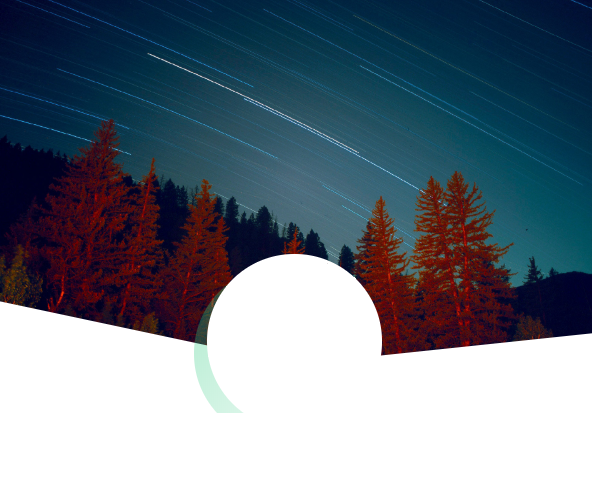
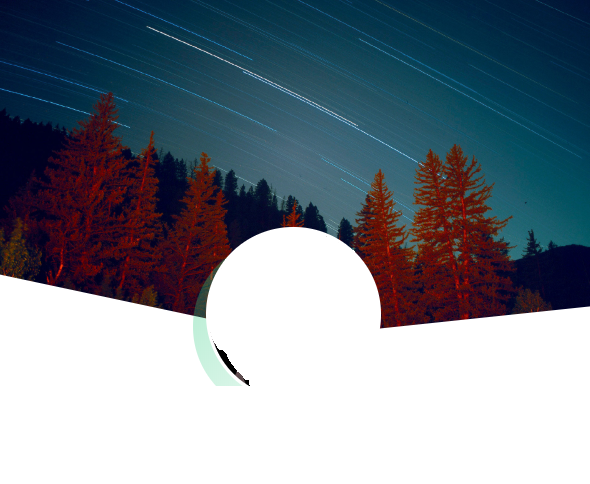
update-6

diff --git a/index.html b/index.html
@@ -41,7 +41,7 @@
                 <img src="..\Resume-website\assests\images\backs.png" class="img-fluid pull-xs-left" alt="background">
               </div>
               <div>
-                <img src="..\Resume-website\assests\images\profile.jpg" class="img-circle" alt="shubham"  style="height:180px;width:180px;margin-left:190px; margin-top:-270px;box-shadow: 0 3px 2px rgba(0, 0, 0, 0.3);  ">
+                <img src="..\Resume-website\assests\images\profile.jpg" class="img-circle" alt="shubham"  style="height:180px;width:180px;margin-left:190px; margin-top:-320px;box-shadow: 0 3px 2px rgba(0, 0, 0, 0.3);  ">
               </div>
               <div>
                 <h3><b>Shubham Chauhan</b></h3>
@@ -49,20 +49,14 @@
               <div>
                 <h4><b>Frontend Developer</b></h4>
               </div>
-              <div>
+              <div style="margin-top:20px">
                 <ul>
-                <li>
-                  <a class="header-logo-invertocat" href="https://github.com/" data-hotkey="g d" aria-label="Homepage" data-ga-click="Header, go to dashboard, icon:logo">
-                   <svg height="32" class="octicon octicon-mark-github" viewBox="0 0 16 16" version="1.1" width="32" aria-hidden="true"><path fill-rule="evenodd" d="M8 0C3.58 0 0 3.58 0 8c0 3.54 2.29 6.53 5.47 7.59.4.07.55-.17.55-.38 0-.19-.01-.82-.01-1.49-2.01.37-2.53-.49-2.69-.94-.09-.23-.48-.94-.82-1.13-.28-.15-.68-.52-.01-.53.63-.01 1.08.58 1.23.82.72 1.21 1.87.87 2.33.66.07-.52.28-.87.51-1.07-1.78-.2-3.64-.89-3.64-3.95 0-.87.31-1.59.82-2.15-.08-.2-.36-1.02.08-2.12 0 0 .67-.21 2.2.82.64-.18 1.32-.27   2-.27.68 0 1.36.09 2 .27 1.53-1.04 2.2-.82 2.2-.82.44 1.1.16 1.92.08 2.12.51.56.82 1.27.82 2.15 0 3.07-1.87 3.75-3.65 3.95.29.25.54.73.54 1.48 0 1.07-.01 1.93-.01 2.2 0 .21.15.46.55.38A8.013 8.013 0 0 0 16 8c0-4.42-3.58-8-8-8z"></path></svg>
-                   </a></li>
-                 <li>
-                <a class="_19eb" data-gt="{&quot;chrome_nav_item&quot;:&quot;logo_chrome&quot;}" href="https://www.facebook.com/?ref=logo"><span class="_2md">Facebook</span></a><li>
-                </li>
-                 <li><a href="#news"><span class="glyphicon glyphicon-list-alt"></span></a></li>
-                 <li><a href="#contact"><span class="glyphicon glyphicon-education"></span></a></li>
-                <li><a href="#contact"><span class="glyphicon glyphicon-education"></span></a></li>
-                <li><a href="#about"><span class="glyphicon glyphicon-earphone"></span></a></li>
-               </ul>
+                <li><a href="https://github.com/shubham860"><img src="..\Resume-website\assests\images\github.svg" class="img-fluid pull-xs-left" alt="github"></a></li>
+                <li><a href="https://www.linkedin.com/in/shubham-chauhan-5a1821153/"><img src="..\Resume-website\assests\images\linked.png" class="img-fluid pull-xs-left" alt="Linkedin" style="height:35px;"></a></li>
+                <li><a href="https://www.sololearn.com/Profile/2719435/Ruby"><img src="..\Resume-website\assests\images\sololearn.jpg" class="img-fluid pull-xs-left" alt="sololearn" style="height:35px;"></a></li>
+                <li><a href="https://www.facebook.com/shubham.chauhan.583671"><img src="..\Resume-website\assests\images\facebook.png" class="img-fluid pull-xs-left" alt="facebook" style="height:35px;"></a></li>
+                <li><a href="https://www.instagram.com/_.shubham_chauhan._/"><img src="..\Resume-website\assests\images\Instagram.png" class="img-fluid pull-xs-left" alt="intagram" style="height:35px;"></a></li>
+              </ul>
               </div>
             </div>
         </div>

diff --git a/assests/css/stylesheet.css b/assests/css/stylesheet.css
@@ -18,7 +18,7 @@ ul {
     position: fixed;
     left: 0;
     height: 72px;
-    width:550px;
+    width:545px;
     display: flex;
     align-items: center;
     justify-content: center;
@@ -26,7 +26,7 @@ ul {
     border-style: solid;
     border-color: white;
     margin-left: 35px;
-    margin-top:1px;
+    margin-top:-20px;
 }
 
 li {
@@ -55,10 +55,10 @@ li a:hover:not(.active)  {
 }
 
 .info{
-  height:580px;
+  height:550px;
   width: 556px;
   margin-left:15px;
-  margin-top:76px;
+  margin-top:60px;
   border-radius: 15px;
   border-style: solid;
   border-color: #00cca3;
@@ -66,7 +66,7 @@ li a:hover:not(.active)  {
 }
 
 h3{
-  margin-top:-40px;
+  margin-top:-70px;
   font-size:30px;
   margin-left:160px;
 }
